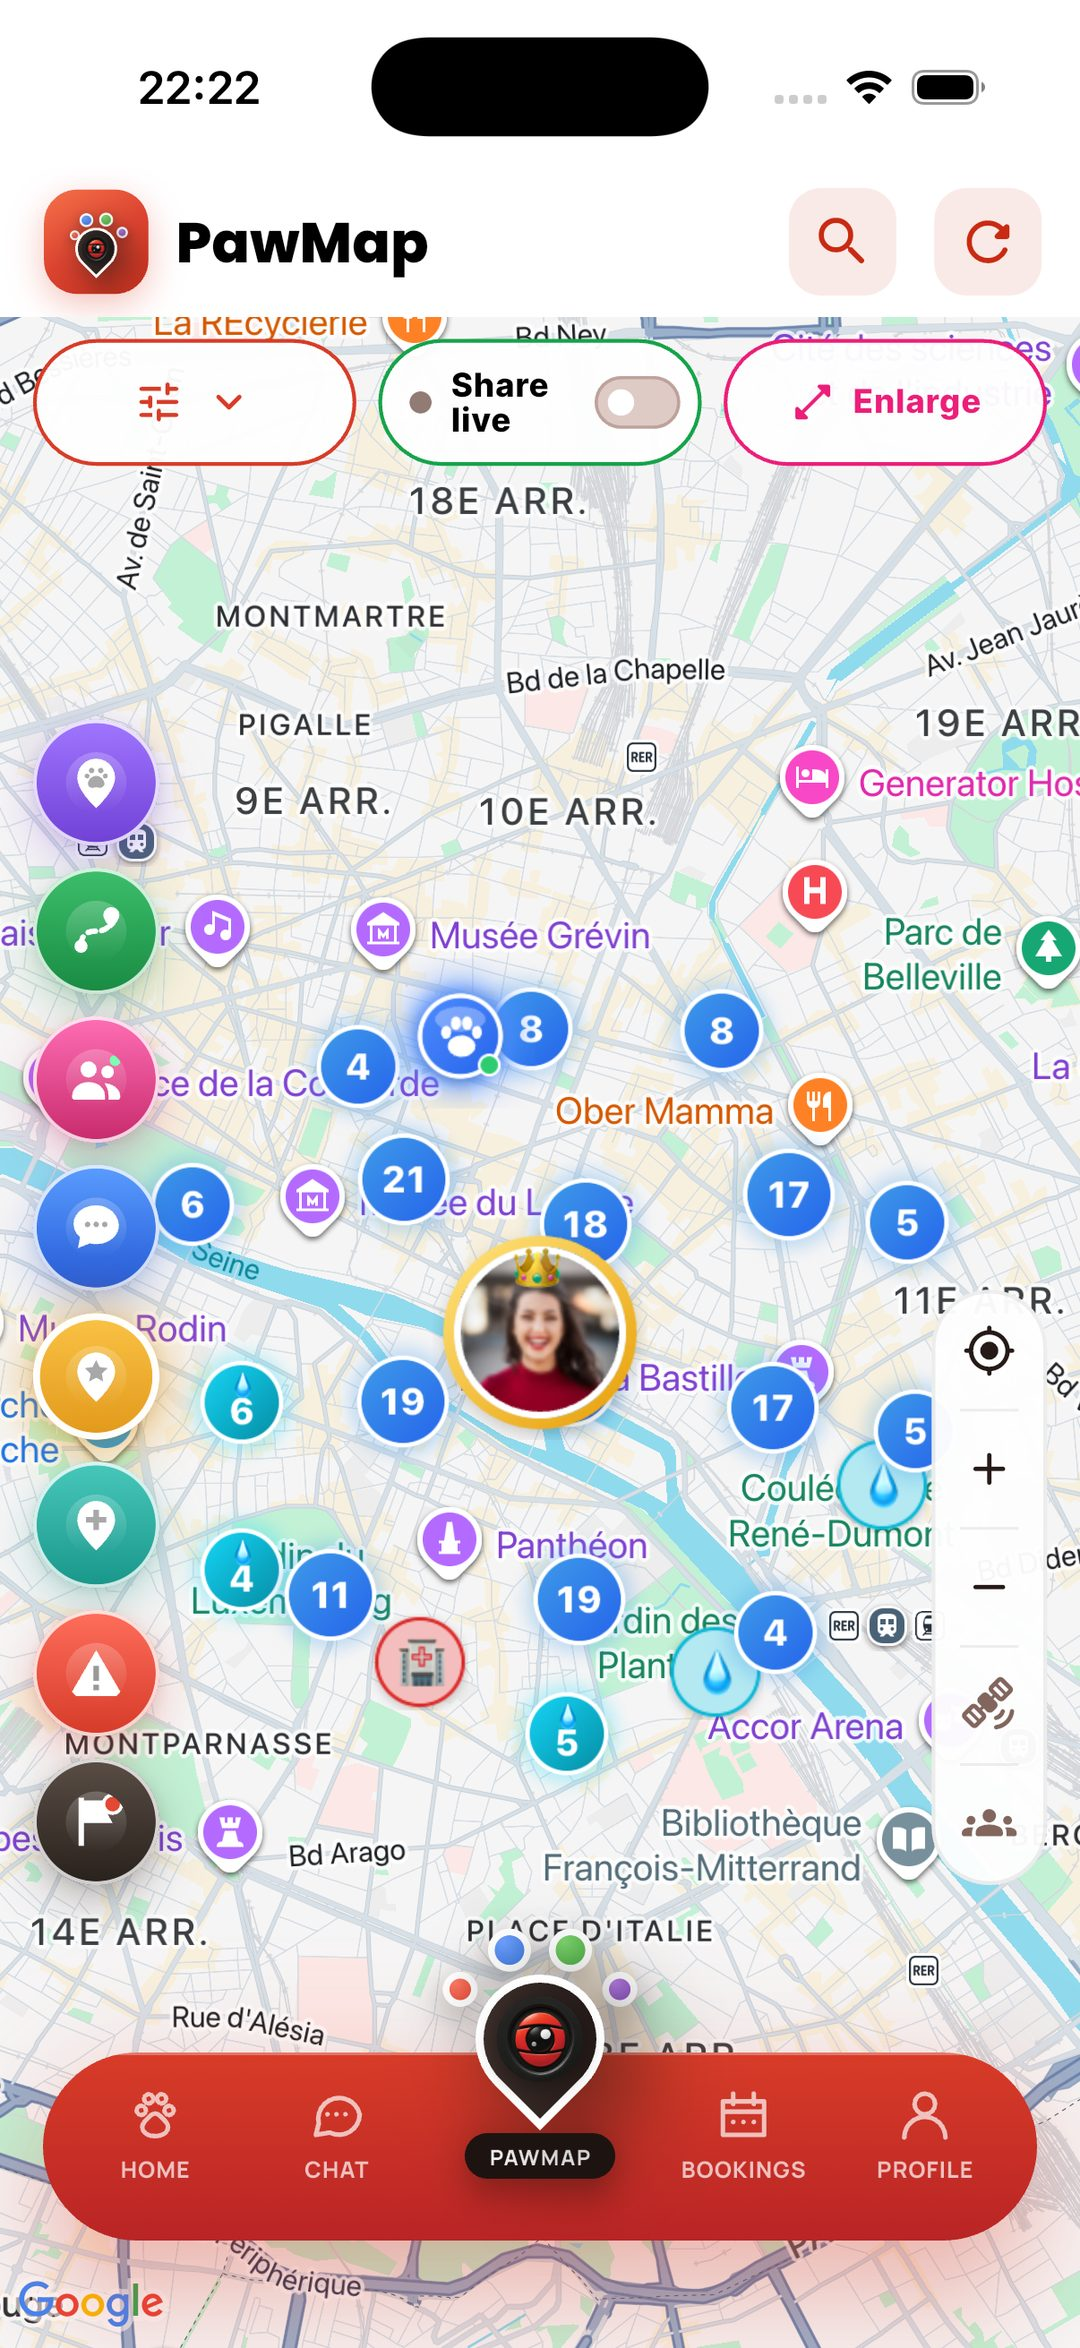
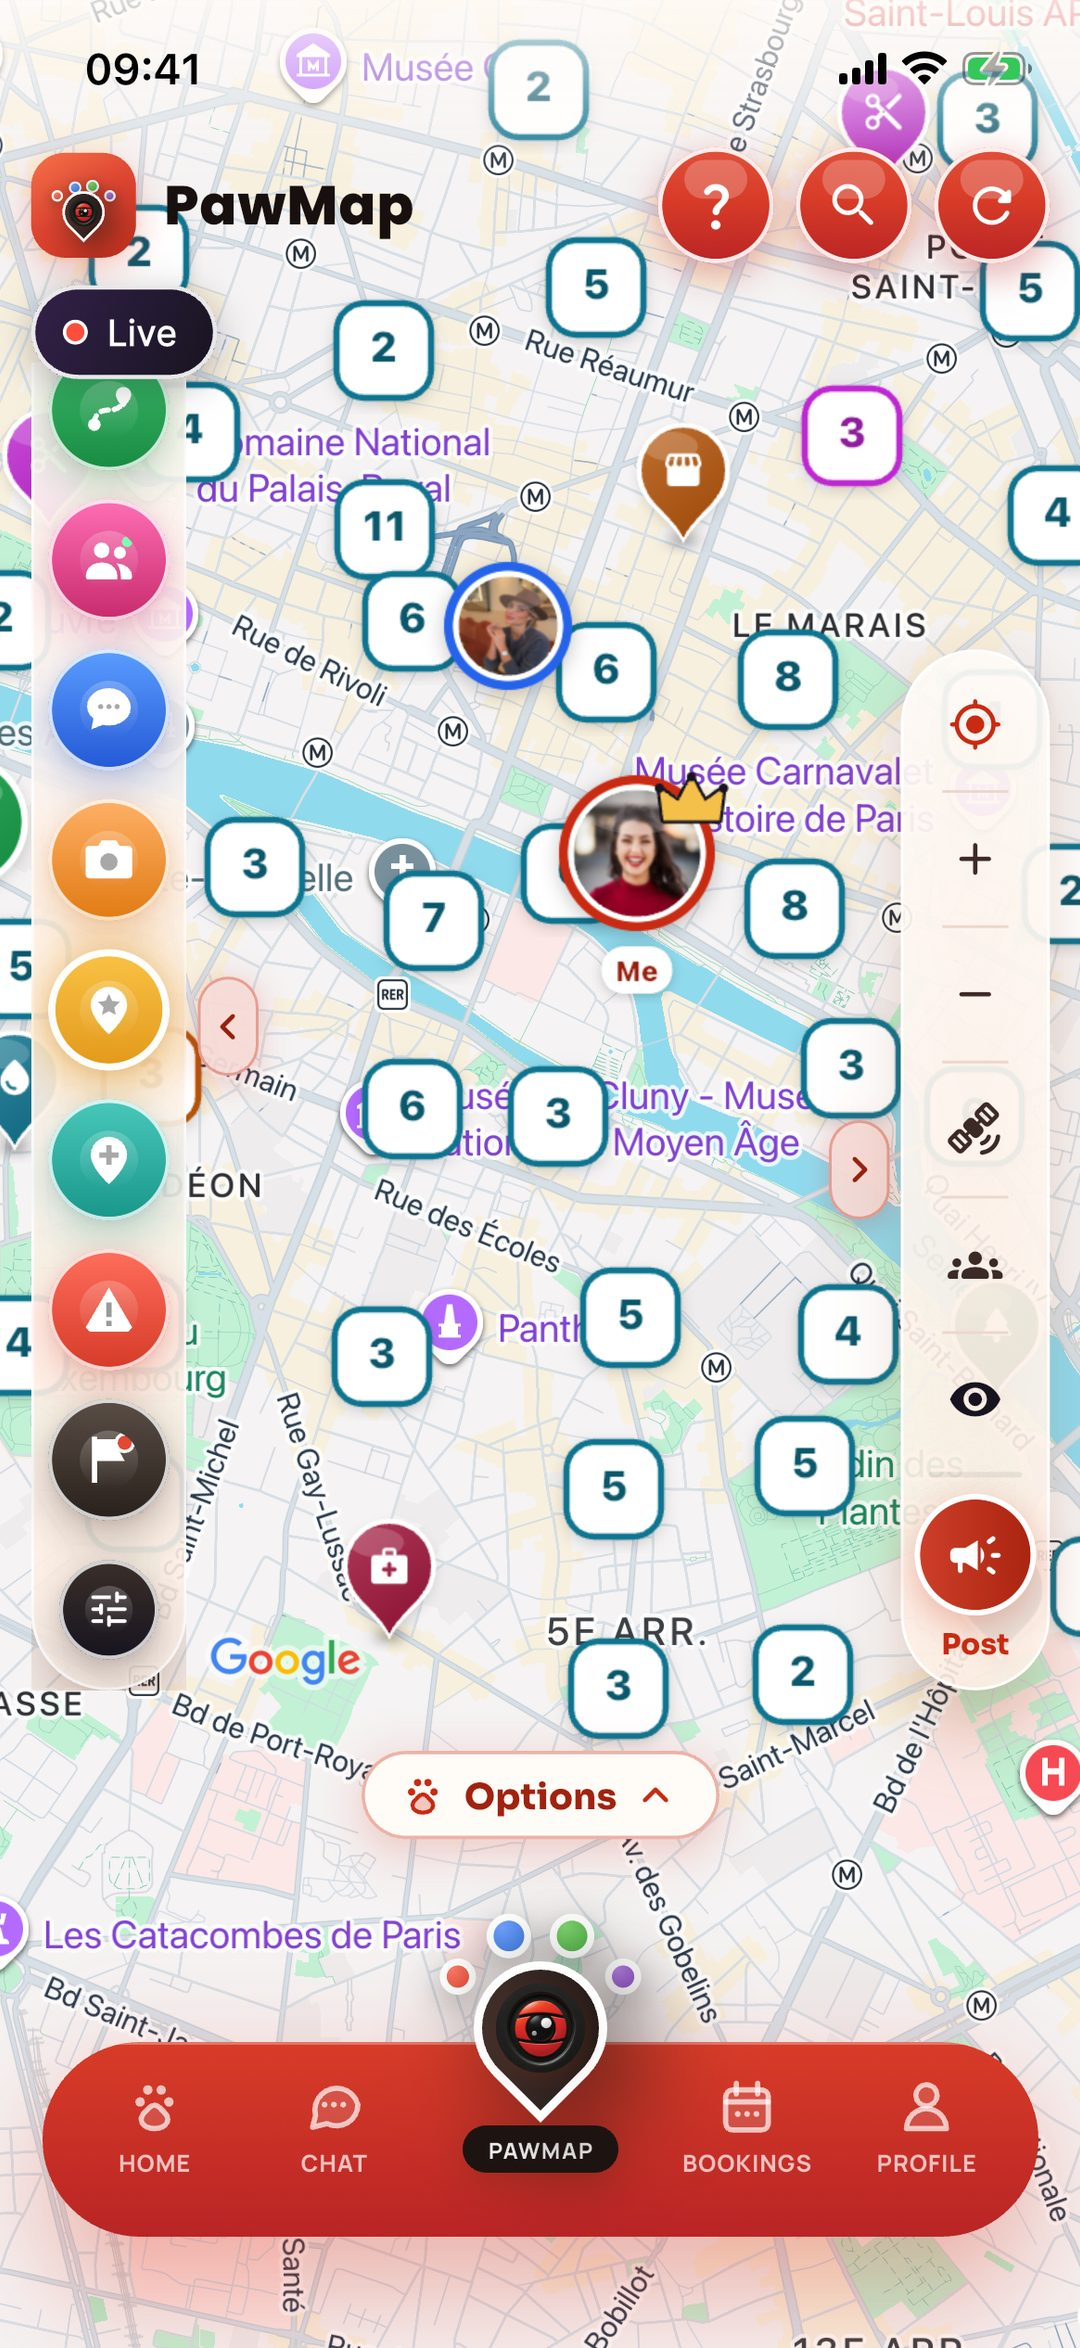
site (589, captures) : PawMap de l'accueil et de /pawmap = nouvelle PawMap du build 588
Captures FR et EN refaites sur le simulateur iPhone 17e (build 588, compte de
test propriétaire, Paris, 9:41) : languette Options, pilule Direct en haut à
gauche, capsule droite, membres avec photo. Mêmes fichiers et dimensions
(1080×2348, JPEG q82).

diff --git a/website/src/lib/screens.tsx b/website/src/lib/screens.tsx
@@ -6,6 +6,9 @@
 // avec l'app à jour : nouveau design, fond à pattes, zéro gris, accents
 // français corrigés. Les anciennes (v561, 13/09) montraient l'app d'avant les
 // refontes 571→580 ; v573 ne couvrait que la carte.
+// v589 (26/09/2026) — 01-carte / 01-map REFAITES sur iPhone 17e (build 588) :
+// nouvelle PawMap (languette Options, pilule Direct, capsule droite, membres
+// avec photo), Paris, 9:41, mêmes noms et dimensions (1080×2348, q82).
 
 export type ScreenShot = { src: string; alt: string };
 
